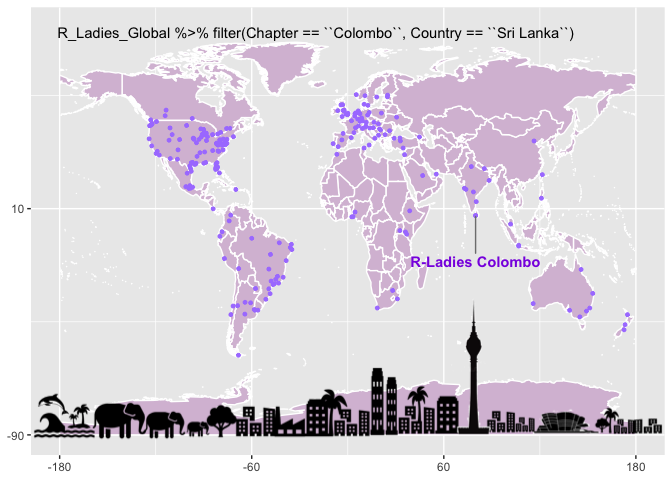
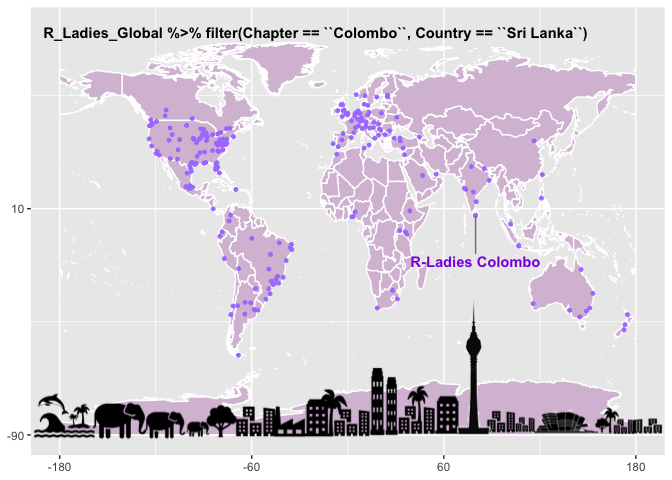
make letters bold

Changed region(s): [[0.0625, 0.0312, 0.4688, 0.0938], [0.5, 0.0312, 0.875, 0.0938]]

diff --git a/README.md b/README.md
@@ -97,7 +97,7 @@ q
 code <- paste("R_Ladies_Global %>% filter(Chapter == ``Colombo``, Country == ``Sri Lanka``)"  )
 
 r <- q + annotate(geom="text", x=-20, y=88, label= code,
-              color="black")
+              color="black", fontface=2)
 r
 ```
 
